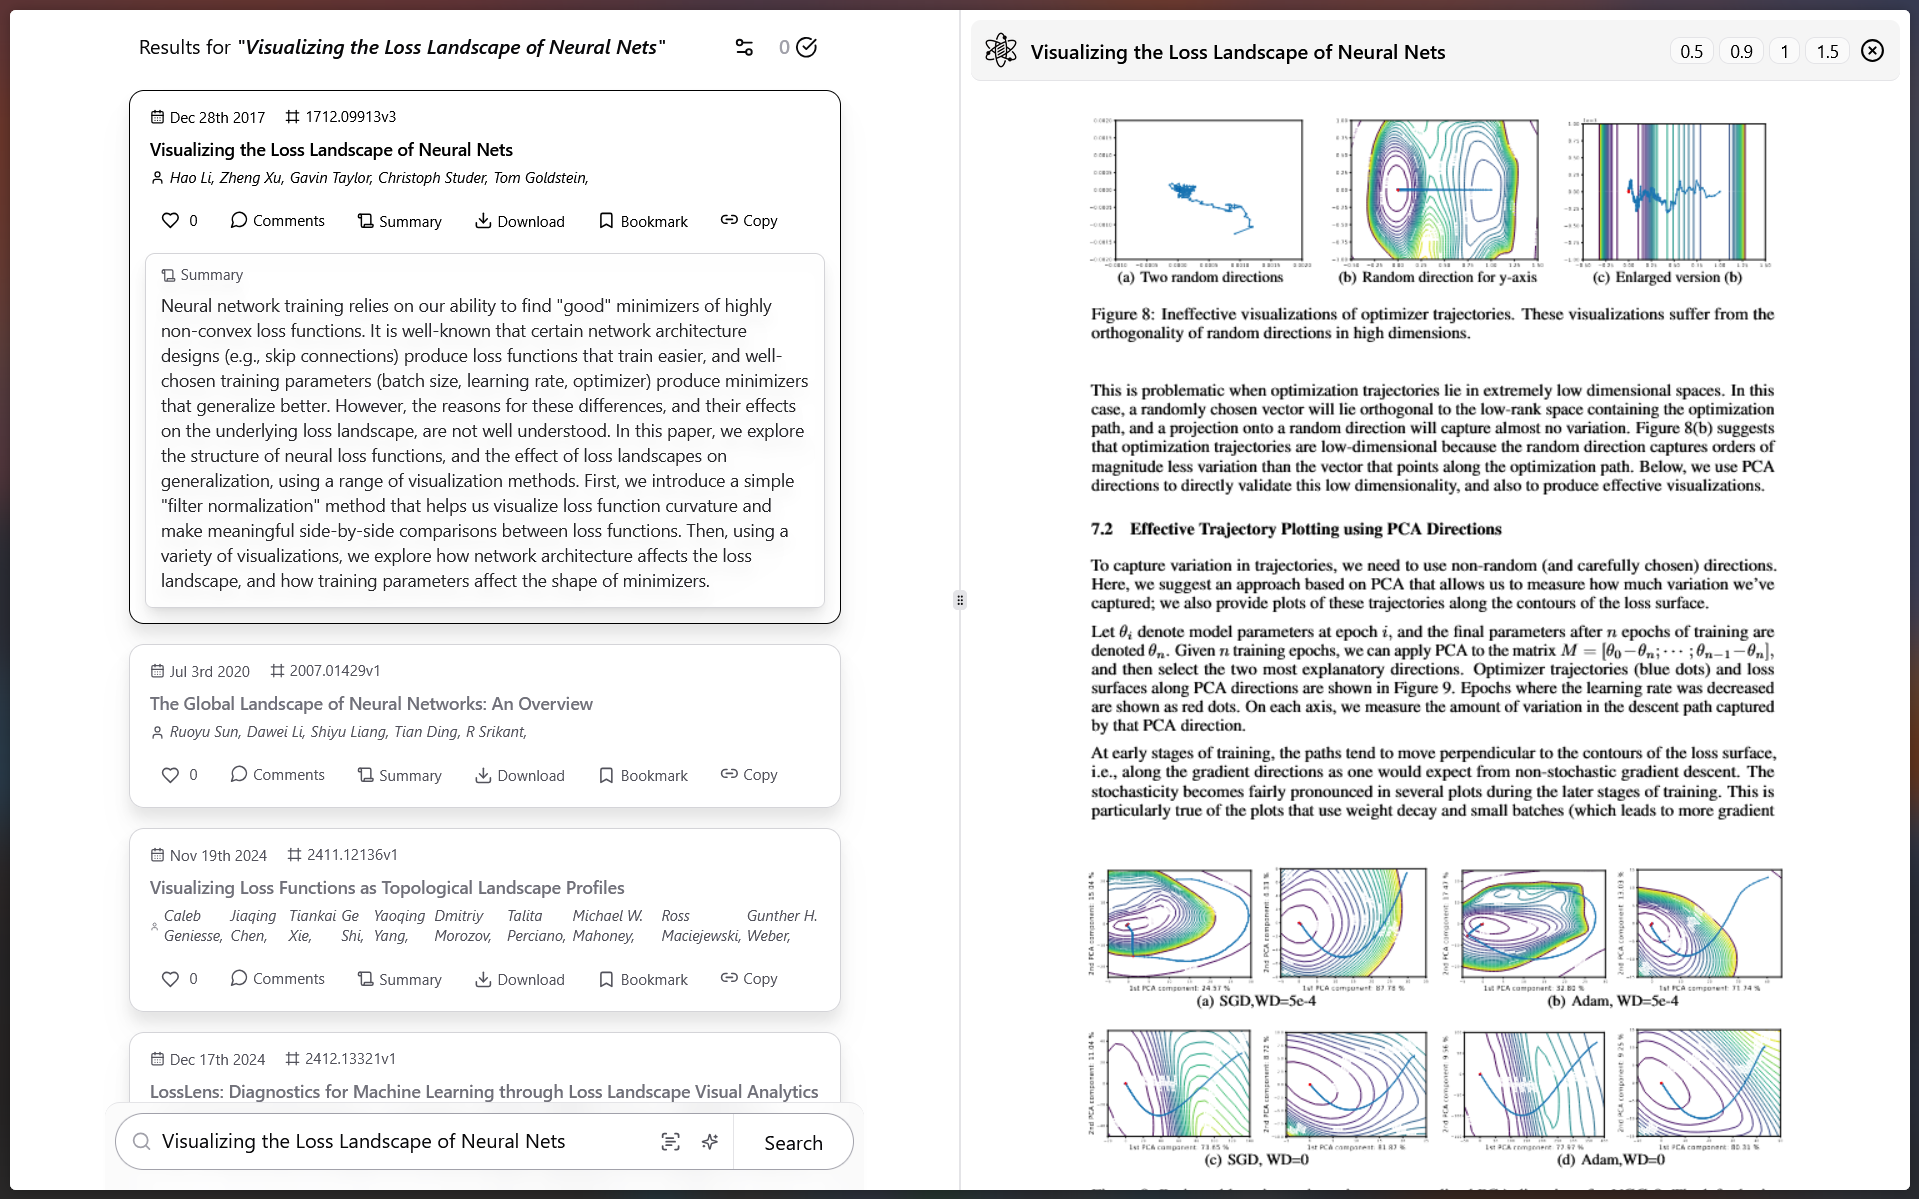
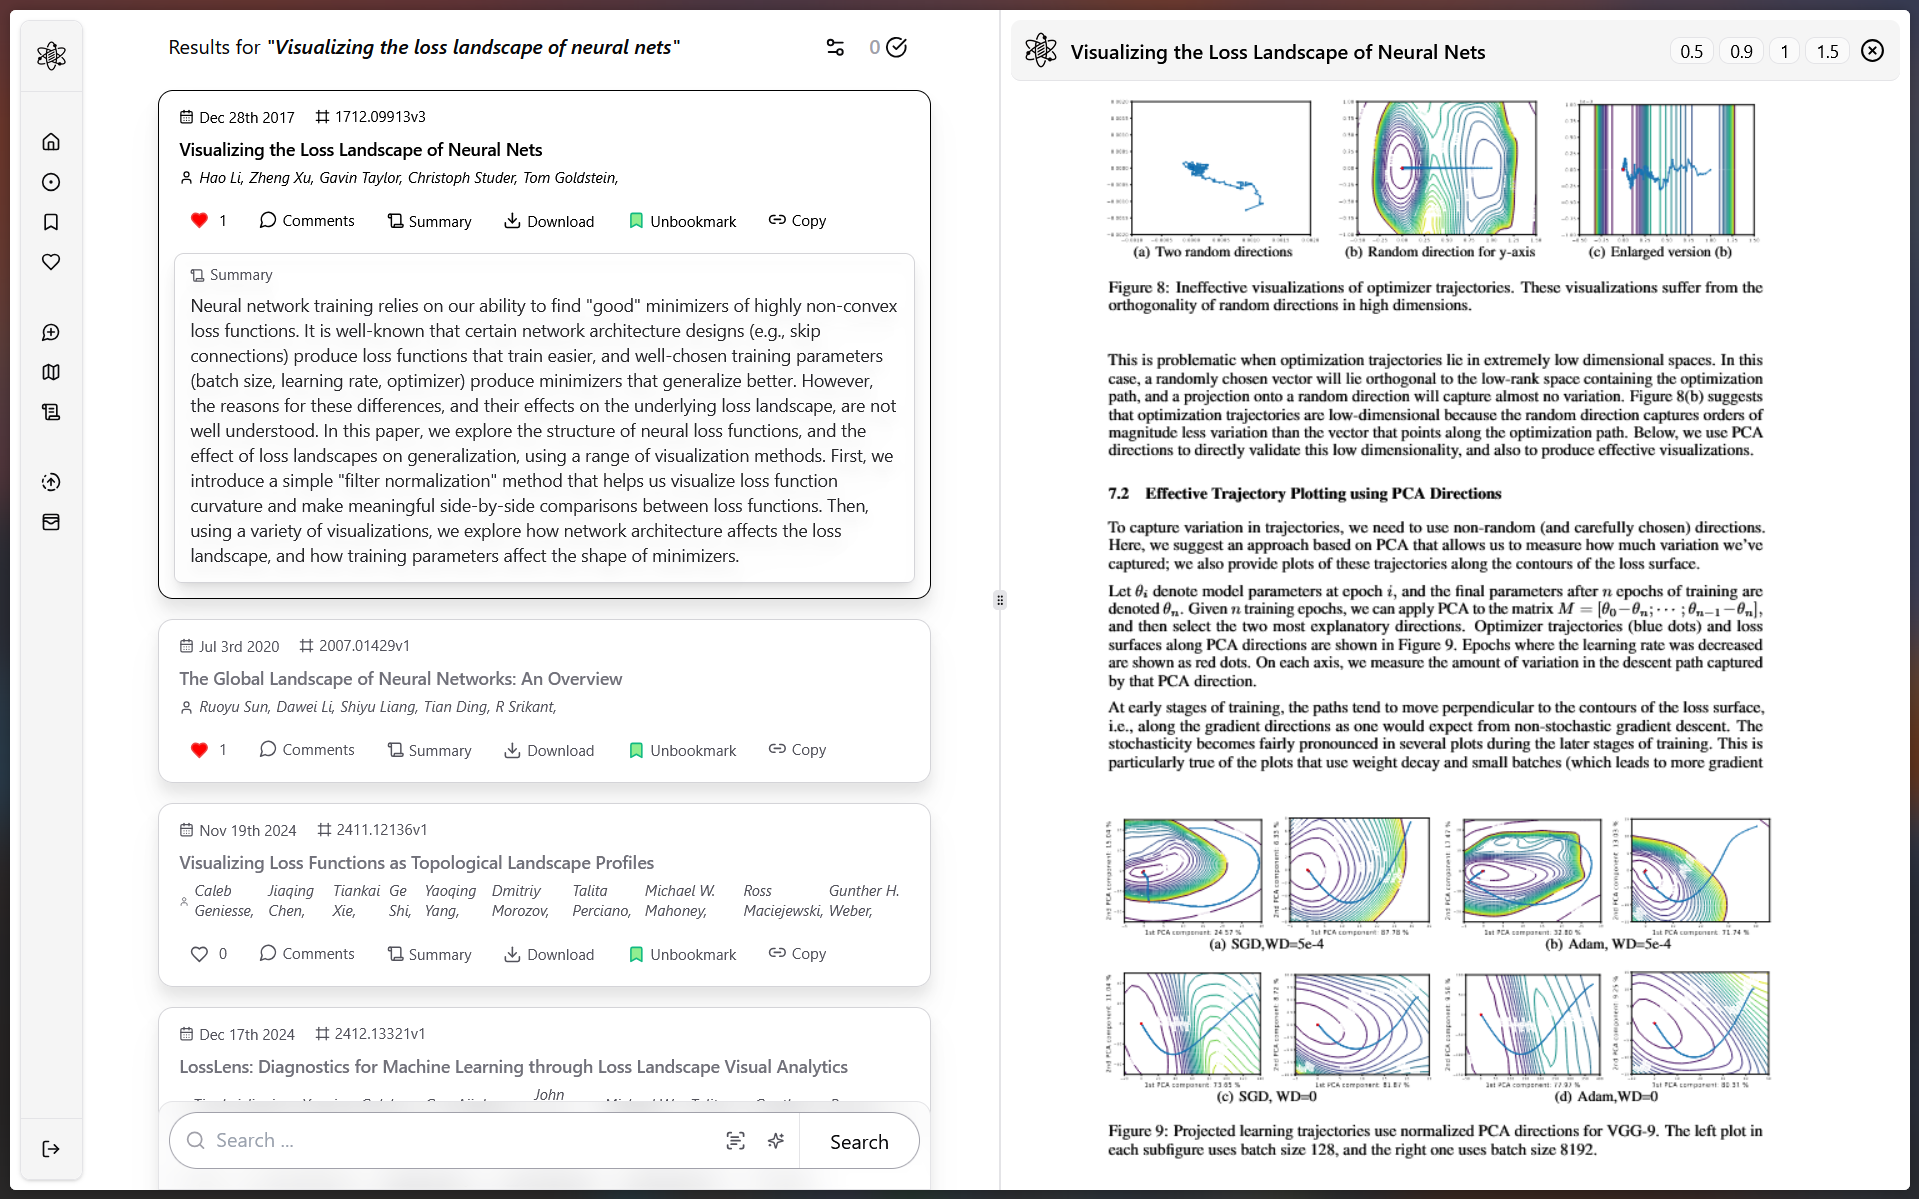
better reader mode

diff --git a/src/components/pdfviewer.svelte b/src/components/pdfviewer.svelte
@@ -18,8 +18,10 @@
 	let canvases: HTMLCanvasElement[] = [];
 	let container: HTMLDivElement;
 	let scaleButtons = [0.5, 0.9, 1.0, 1.5];
+	let isLoading = true;
 
 	onMount(async () => {
+		isLoading = true;
 		const pdfjsLib = await import('pdfjs-dist/legacy/build/pdf');
 
 		pdfjsLib.GlobalWorkerOptions.workerSrc =
@@ -50,6 +52,9 @@
 				await page.render({ canvasContext: context, viewport: scaledViewport }).promise;
 			}
 		}
+		await tick();
+
+		isLoading = false;
 	});
 </script>
 
@@ -124,9 +129,21 @@
 			<!-- <BarLoader size="52" color="#000" duration="1s" /> -->
 		</div>
 
-		<!-- PDF Pages -->
-		{#each canvases as _, i}
-			<canvas bind:this={canvases[i]}></canvas>
-		{/each}
+		<div>
+			<!-- PDF Pages -->
+			{#each canvases as _, i}
+				<canvas bind:this={canvases[i]}></canvas>
+			{/each}
+			<!-- {#if isLoading}
+				<div class="flex flex-col items-center justify-center pt-96">
+					<img src={logo} alt="placeholder" class="h-24 w-24" />
+					<BarLoader size="40" color="#000" duration="1s" />
+				</div>
+			{:else}
+				{#each canvases as _, i}
+					<canvas bind:this={canvases[i]}></canvas>
+				{/each}
+			{/if} -->
+		</div>
 	</div>
 </div>

diff --git a/src/routes/+layout.svelte b/src/routes/+layout.svelte
@@ -53,10 +53,16 @@
 						</div>
 					{/if}
 
-					<div class="mx-auto w-11/12 flex-1 pt-0 md:w-3/4">
+					<div
+						class="mx-auto w-11/12 flex-1 pt-0 md:w-3/4"
+						class:md:w-[85%]={pdfPreviewState.isOpen}
+					>
 						{@render children?.()}
 					</div>
-					<div class="sticky bottom-0 left-0 right-0 mx-auto w-full md:w-4/5">
+					<div
+						class="sticky bottom-0 left-0 right-0 mx-auto w-full md:w-4/5"
+						class:md:w-[85%]={pdfPreviewState.isOpen}
+					>
 						{#if page.url.pathname == '/research'}
 							<ChatBox />
 						{:else if page.url.pathname == '/bookmarks_page' || page.url.pathname == '/liked_papers_page' || page.url.pathname == '/homepage'}

diff --git a/src/lib/constants.ts b/src/lib/constants.ts
@@ -64,5 +64,6 @@ export const suggestedPaperTitles: any[] = [
 	'transport',
 	'virtual reality',
 	'volcano',
-	'vision'
+	'vision',
+	'Visualizing the loss landscape of neural nets'
 ];
